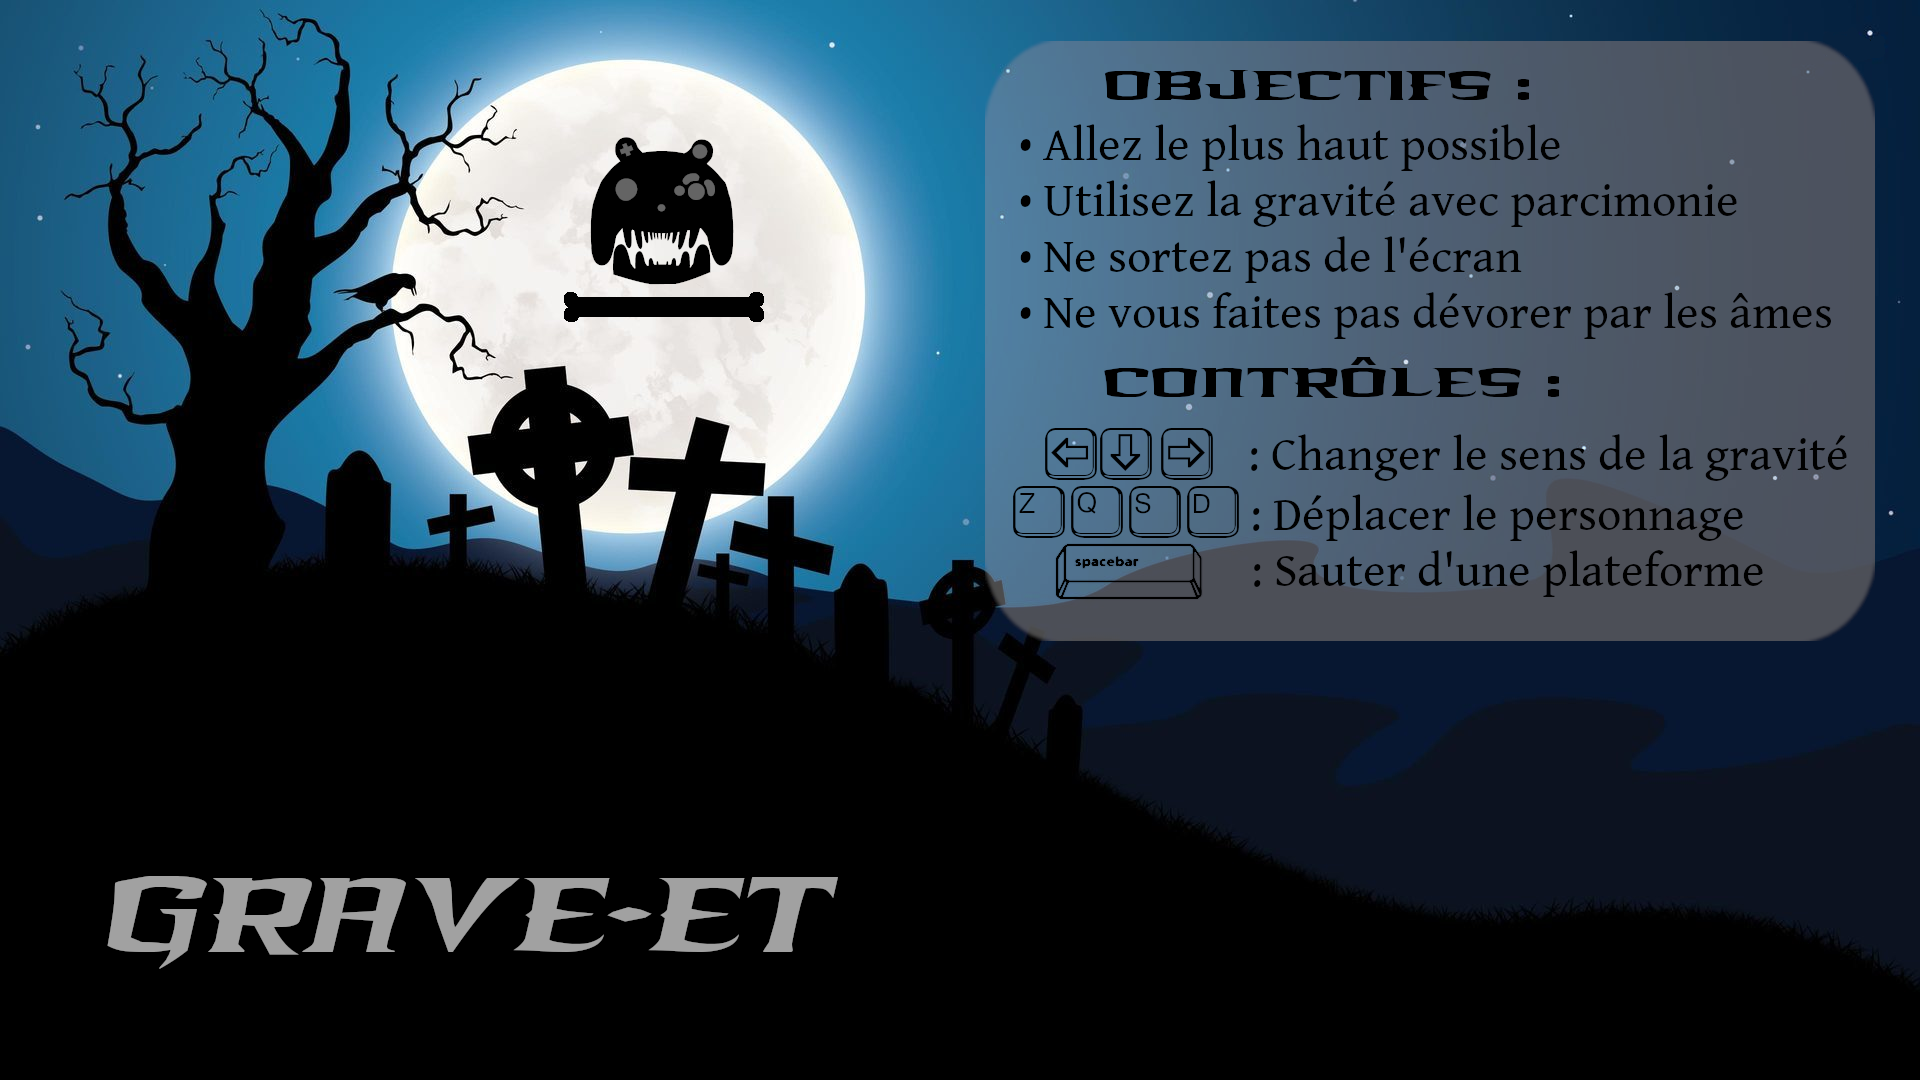
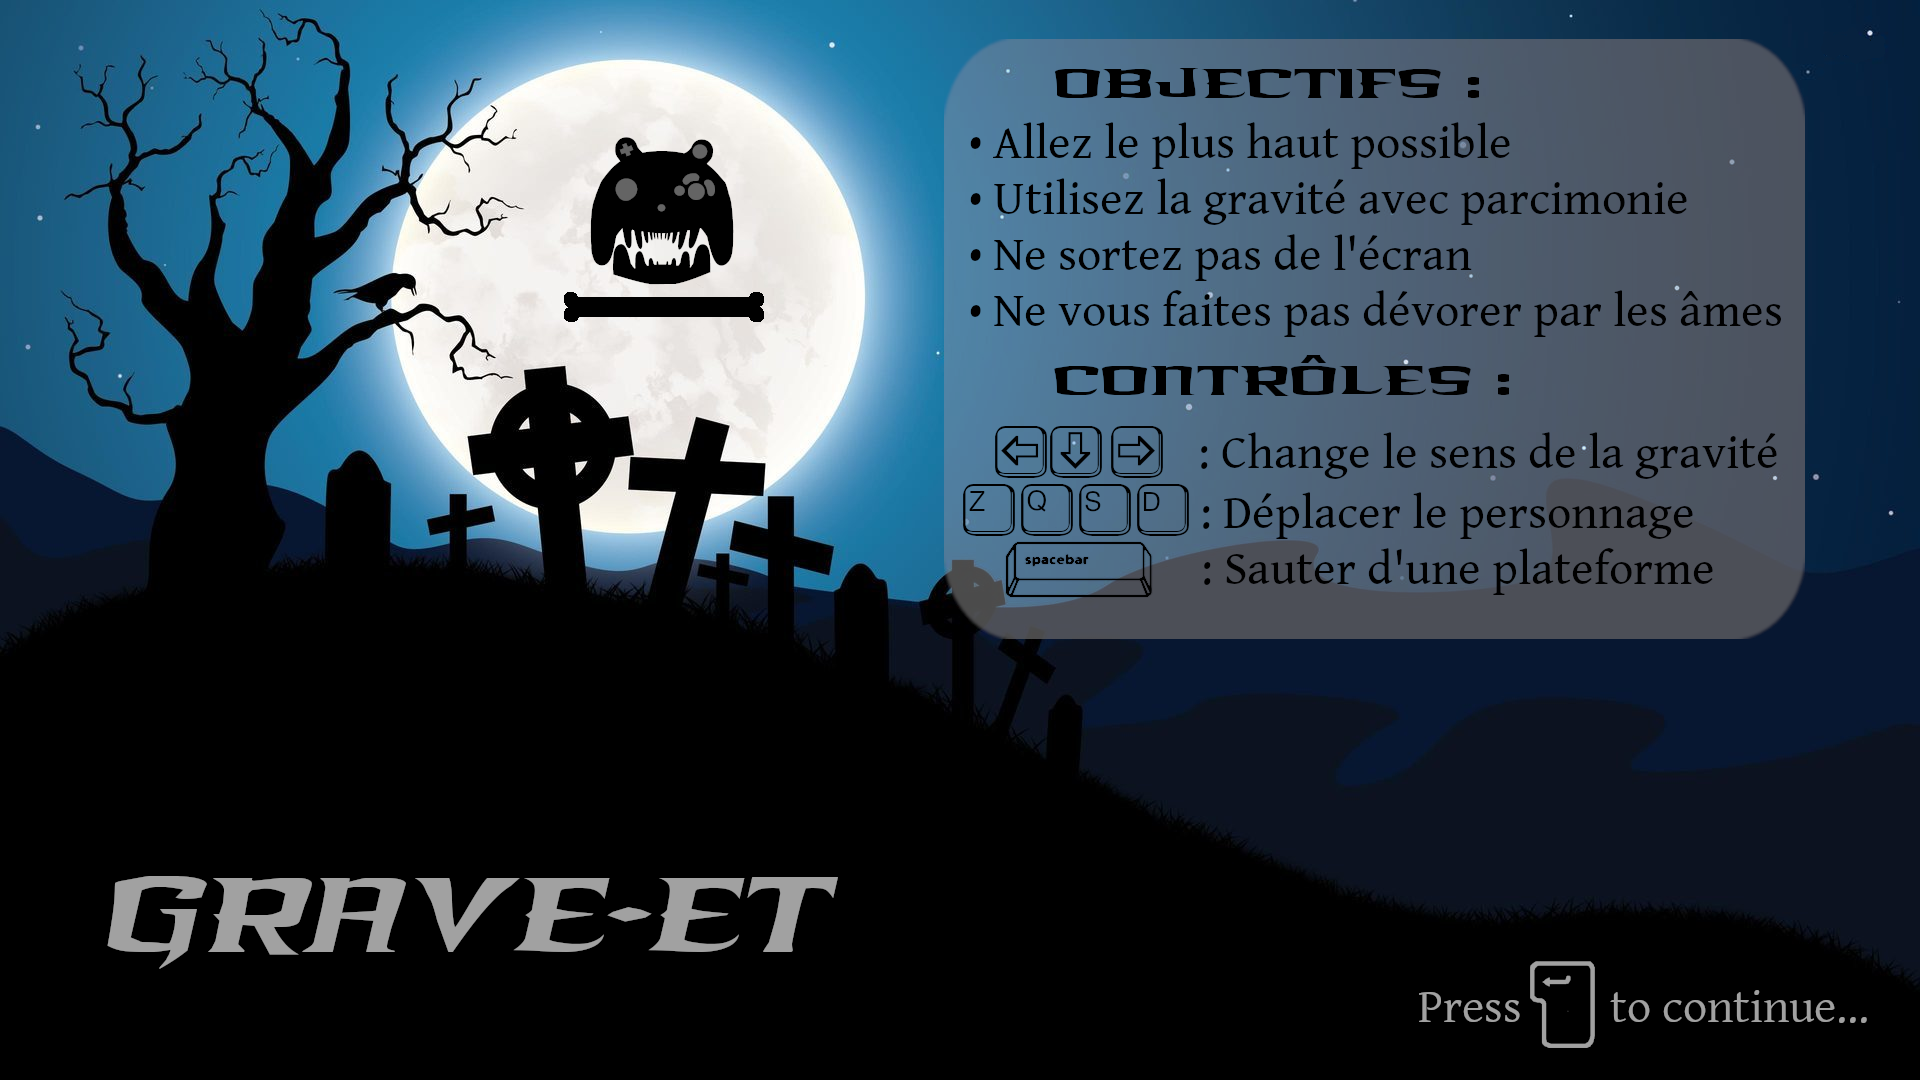
[verticalPlateformer & Welcome]
- Gestion de la musique dans les menus

- Correction des bugs de bonus
- Correction du render de la gravité
- Ajout des règles dans la pause
- Retrait des règles avec la touche R

- Modification des règles

Changed region(s): [[0.4688, 0.0306, 1.0, 0.6111], [0.7188, 0.8861, 0.9688, 0.9778]]

diff --git a/src/pages/Pause.java b/src/pages/Pause.java
@@ -1,6 +1,7 @@
 package pages;
 
-import java.util.Arrays;
+import java.util.ArrayList;
+import java.util.List;
 
 import org.newdawn.slick.GameContainer;
 import org.newdawn.slick.state.StateBasedGame;
@@ -13,6 +14,7 @@ import app.elements.MenuItem;
 public class Pause extends AppMenu {
 	
 	private int worldID;
+	private List<MenuItem> menu;
 	
 	public Pause (int ID, int worldID) {
 		super (ID);
@@ -25,28 +27,37 @@ public class Pause extends AppMenu {
 		super.init (container, game);
 		this.setTitle ("Pause");
 		this.setSubtitle ("Le temps de prendre un goûter");
-		this.setMenu (Arrays.asList (new MenuItem [] {
-			new MenuItem ("Retour") {
+		menu = new ArrayList<MenuItem>();
+		menu.add(new MenuItem("Retour") {
+			public void itemSelected () {
+				if (game.getState (Pause.this.worldID) instanceof verticalPlateformer.World ) {
+					((verticalPlateformer.World) game.getState (Pause.this.worldID)).setState (2);
+				} else {
+					((haxBall.World) game.getState (Pause.this.worldID)).setState (2);
+				}
+				game.enterState (Pause.this.worldID, new FadeOutTransition (), new FadeInTransition ());
+			}
+		});
+		if (game.getState (Pause.this.worldID) instanceof verticalPlateformer.World ) {
+			menu.add(new MenuItem("Règles") {
 				public void itemSelected () {
-					if (game.getState (Pause.this.worldID) instanceof verticalPlateformer.World ) {
-						((verticalPlateformer.World) game.getState (Pause.this.worldID)).setState (2);
-					} else {
-						((haxBall.World) game.getState (Pause.this.worldID)).setState (2);
-					}
+					((verticalPlateformer.World) game.getState (Pause.this.worldID)).setState (2);
+					((verticalPlateformer.World) game.getState (Pause.this.worldID)).showRules();
 					game.enterState (Pause.this.worldID, new FadeOutTransition (), new FadeInTransition ());
 				}
-			},
-			new MenuItem ("Abandon") {
-				public void itemSelected () {
-					if (game.getState (Pause.this.worldID) instanceof verticalPlateformer.World ) {
-						((verticalPlateformer.World) game.getState (Pause.this.worldID)).setState (0);
-					} else {
-						((haxBall.World) game.getState (Pause.this.worldID)).setState (0);
-					}
-					game.enterState (1, new FadeOutTransition (), new FadeInTransition ());
+			});
+		}
+		menu.add(new MenuItem ("Abandon") {
+			public void itemSelected () {
+				if (game.getState (Pause.this.worldID) instanceof verticalPlateformer.World ) {
+					((verticalPlateformer.World) game.getState (Pause.this.worldID)).setState (0);
+				} else {
+					((haxBall.World) game.getState (Pause.this.worldID)).setState (0);
 				}
+				game.enterState (1, new FadeOutTransition (), new FadeInTransition ());
 			}
-		}));
+		});
+		this.setMenu (menu);
 		this.setHint ("HAVE A SNACK");
 	}
 

diff --git a/src/pages/Welcome.java b/src/pages/Welcome.java
@@ -17,7 +17,7 @@ public class Welcome extends AppPage {
 	private Image logo;
 	private Image background;
 	private Image transition;
-	private Music music;
+	public static Music music;
 
 	private boolean logoVisibility;
 
@@ -33,7 +33,15 @@ public class Welcome extends AppPage {
 
 	private int logoNaturalWidth;
 	private int logoNaturalHeight;
-
+	
+	static {
+		try {
+			music = new Music("res/musics/HalloweenTheme.ogg");
+		} catch (SlickException e) {
+			e.printStackTrace();
+		}
+	}
+	
 	public Welcome (int ID) {
 		super (ID);
 	}
@@ -59,9 +67,7 @@ public class Welcome extends AppPage {
 			this.background = new Image("images/welcome.png");
 			this.transition = new Image("images/soulsTransition.png");
 			this.setLogo (new Image ("images/logo.png"));
-			this.music = new Music("res/musics/HalloweenTheme.ogg");
 		} catch (SlickException e) {
-			// TODO Auto-generated catch block
 			e.printStackTrace();
 		}
 	}
@@ -79,12 +85,13 @@ public class Welcome extends AppPage {
 
 	@Override
 	public void enter (GameContainer container, StateBasedGame game) {
-		this.music.play ();
+		if (!music.playing()) {
+			music.loop();
+		}
 	}
 
 	@Override
 	public void leave (GameContainer container, StateBasedGame game) {
-		this.music.stop ();
 	}
 
 	@Override

diff --git a/src/verticalPlateformer/Bonus.java b/src/verticalPlateformer/Bonus.java
@@ -10,25 +10,25 @@ import org.newdawn.slick.state.StateBasedGame;
 public abstract class Bonus extends Entity {
 
 	private Circle shape;
-	private float radius;
+	private float radius; //rayon
 	private Color color;
 
 	public Bonus (float posX, float posY, float radius, Color color) {
 		super (posX, posY);
-		this.shape = new Circle (posX, posY, radius);
+		this.shape = new Circle (posX+radius, posY+radius, radius);
 		this.radius = radius;
 		this.color = color;
 	}
 
 	public void update (GameContainer container, StateBasedGame game, int delta) {
 		super.update (container, game, delta);
-		this.shape.setX (super.getPosX ());
-		this.shape.setY (super.getPosY ());
+		//this.shape.setX (super.getPosX ());
+		//this.shape.setY (super.getPosY ());
 	}
 
 	public void render (GameContainer container, StateBasedGame game, Graphics context) {
 		context.setColor (this.color);
-		context.fillOval (super.getPosX (), super.getPosY () - ((World) game.getCurrentState ()).getPlayers ().get (0).getPosY (), radius, radius);
+		context.fillOval (super.getPosX (), container.getHeight() / 2 + super.getPosY() - ((World) game.getCurrentState()).getPlayers().get(0).getPosY(), 2*radius, 2*radius);
 	}
 
 	public Shape getShape () {

diff --git a/src/verticalPlateformer/Player.java b/src/verticalPlateformer/Player.java
@@ -2,6 +2,7 @@ package verticalPlateformer;
 
 
 import org.newdawn.slick.Input;
+import org.newdawn.slick.Color;
 import org.newdawn.slick.GameContainer;
 import org.newdawn.slick.Graphics;
 import org.newdawn.slick.Image;
@@ -99,7 +100,7 @@ public class Player extends Entity {
 
 	public void render (GameContainer container, StateBasedGame game, Graphics context) {
 		/* Méthode exécutée environ 60 fois par seconde */
-
+		context.setColor(Color.white);
 		switch (this.getGravity()) {
 		case 0:
 			context.texture(background, downArrow);

diff --git a/src/app/AppPage.java b/src/app/AppPage.java
@@ -111,7 +111,7 @@ public abstract class AppPage extends BasicGameState {
 	}
 
 	@Override
-	public void init(GameContainer container, StateBasedGame game) {
+	public void init (GameContainer container, StateBasedGame game) {
 		this.titleBoxWidth = this.contentWidth;
 		this.titleBoxHeight = AppPage.titleLineHeight;
 		this.titleBoxX = this.contentX;

diff --git a/src/pages/Choice.java b/src/pages/Choice.java
@@ -43,5 +43,13 @@ public class Choice extends AppMenu {
 		this.setTitle ("Choix");
 		this.setHint ("SELECT A GAME");
 	}
+	
+	@Override
+	public void enter (GameContainer container, StateBasedGame game) {
+		super.enter(container, game);
+		if (!Welcome.music.playing()) {
+			Welcome.music.loop();
+		}
+	}
 
 }

diff --git a/src/verticalPlateformer/World.java b/src/verticalPlateformer/World.java
@@ -98,9 +98,6 @@ public class World extends BasicGameState {
 			this.setState (1);
 			game.enterState (3, new FadeOutTransition (), new FadeInTransition ());
 		}
-		if (input.isKeyDown(Input.KEY_R)) {
-			this.showRules = true;
-		}
 		
 		if (!showRules) {
 			line.update(container, game, delta);
